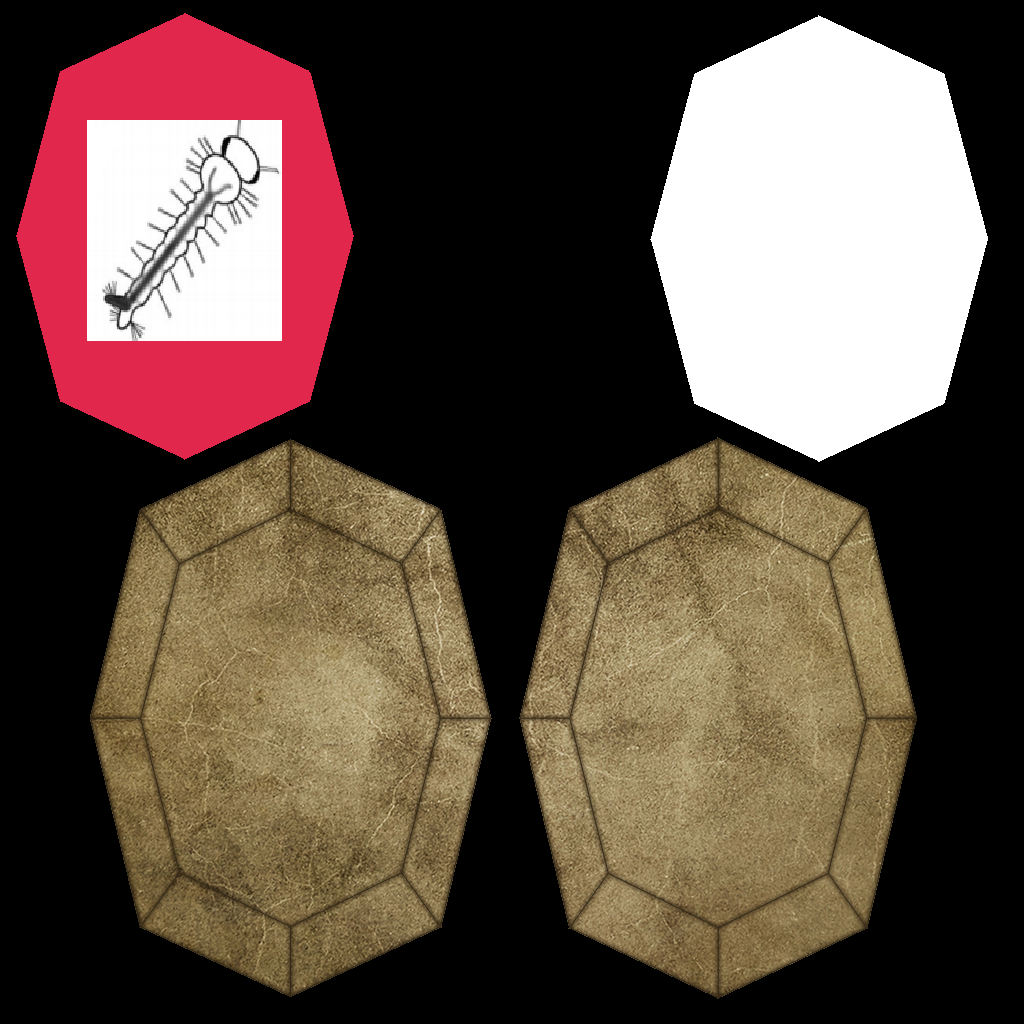
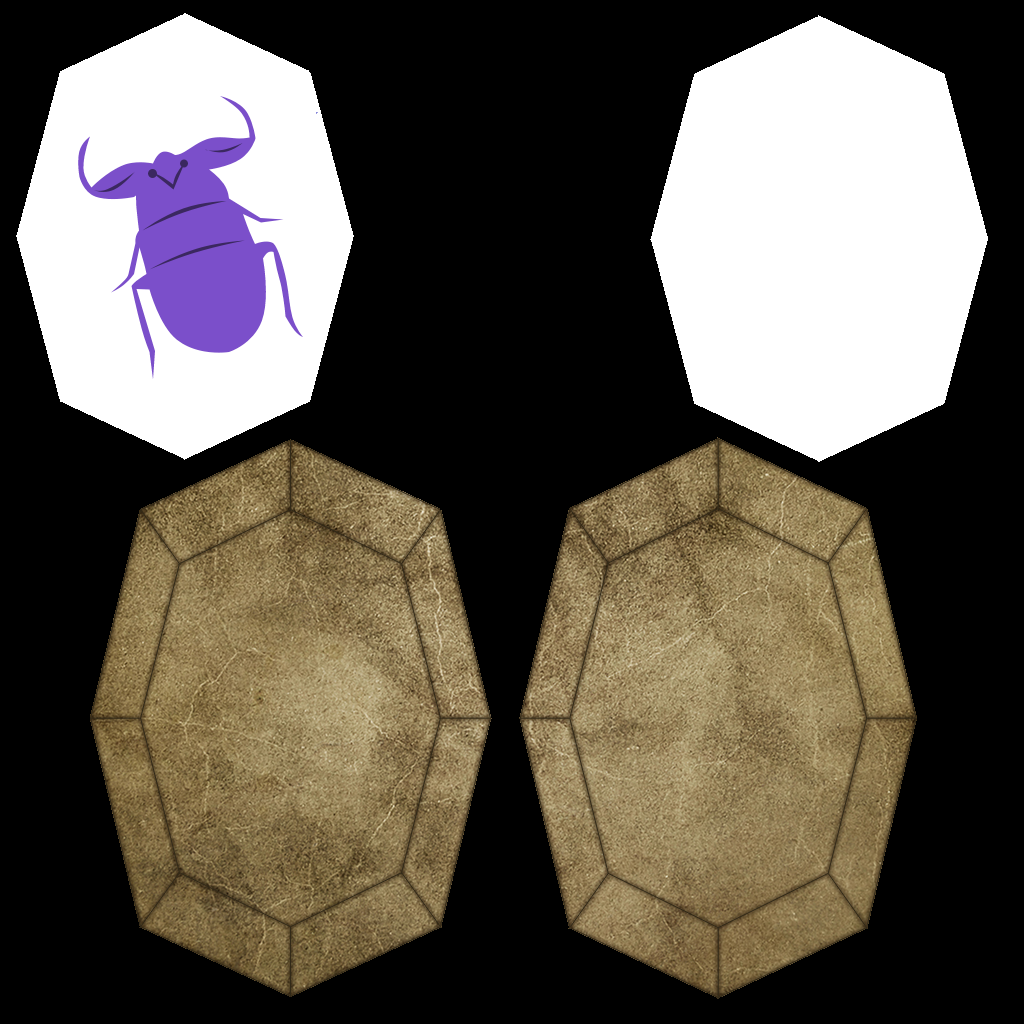
Imágenes más grandes minijuego

Changed region(s): [[0.0, 0.0, 0.3438, 0.4688]]

diff --git a/ProyectoUnity/Assets/MemoryGame/Resources/Scripts/GameSettings.cs b/ProyectoUnity/Assets/MemoryGame/Resources/Scripts/GameSettings.cs
@@ -17,7 +17,7 @@ public class GameSettings
 
 	public enum GameDifficulty {Easy, Medium, Hard}
 	public GameDifficulty difficulty= GameDifficulty.Easy;
-	private string[] easyDifficulty = {"1","2","3","4"};
+	private string[] easyDifficulty = {"1","2","3","4","5","8"};
 	private string[] mediumDifficulty= {"1","2","3","4","5","6","7"};
 	private string[] hardDifficulty= {"1","2","3","4","5","6","7","8","9"};
 
